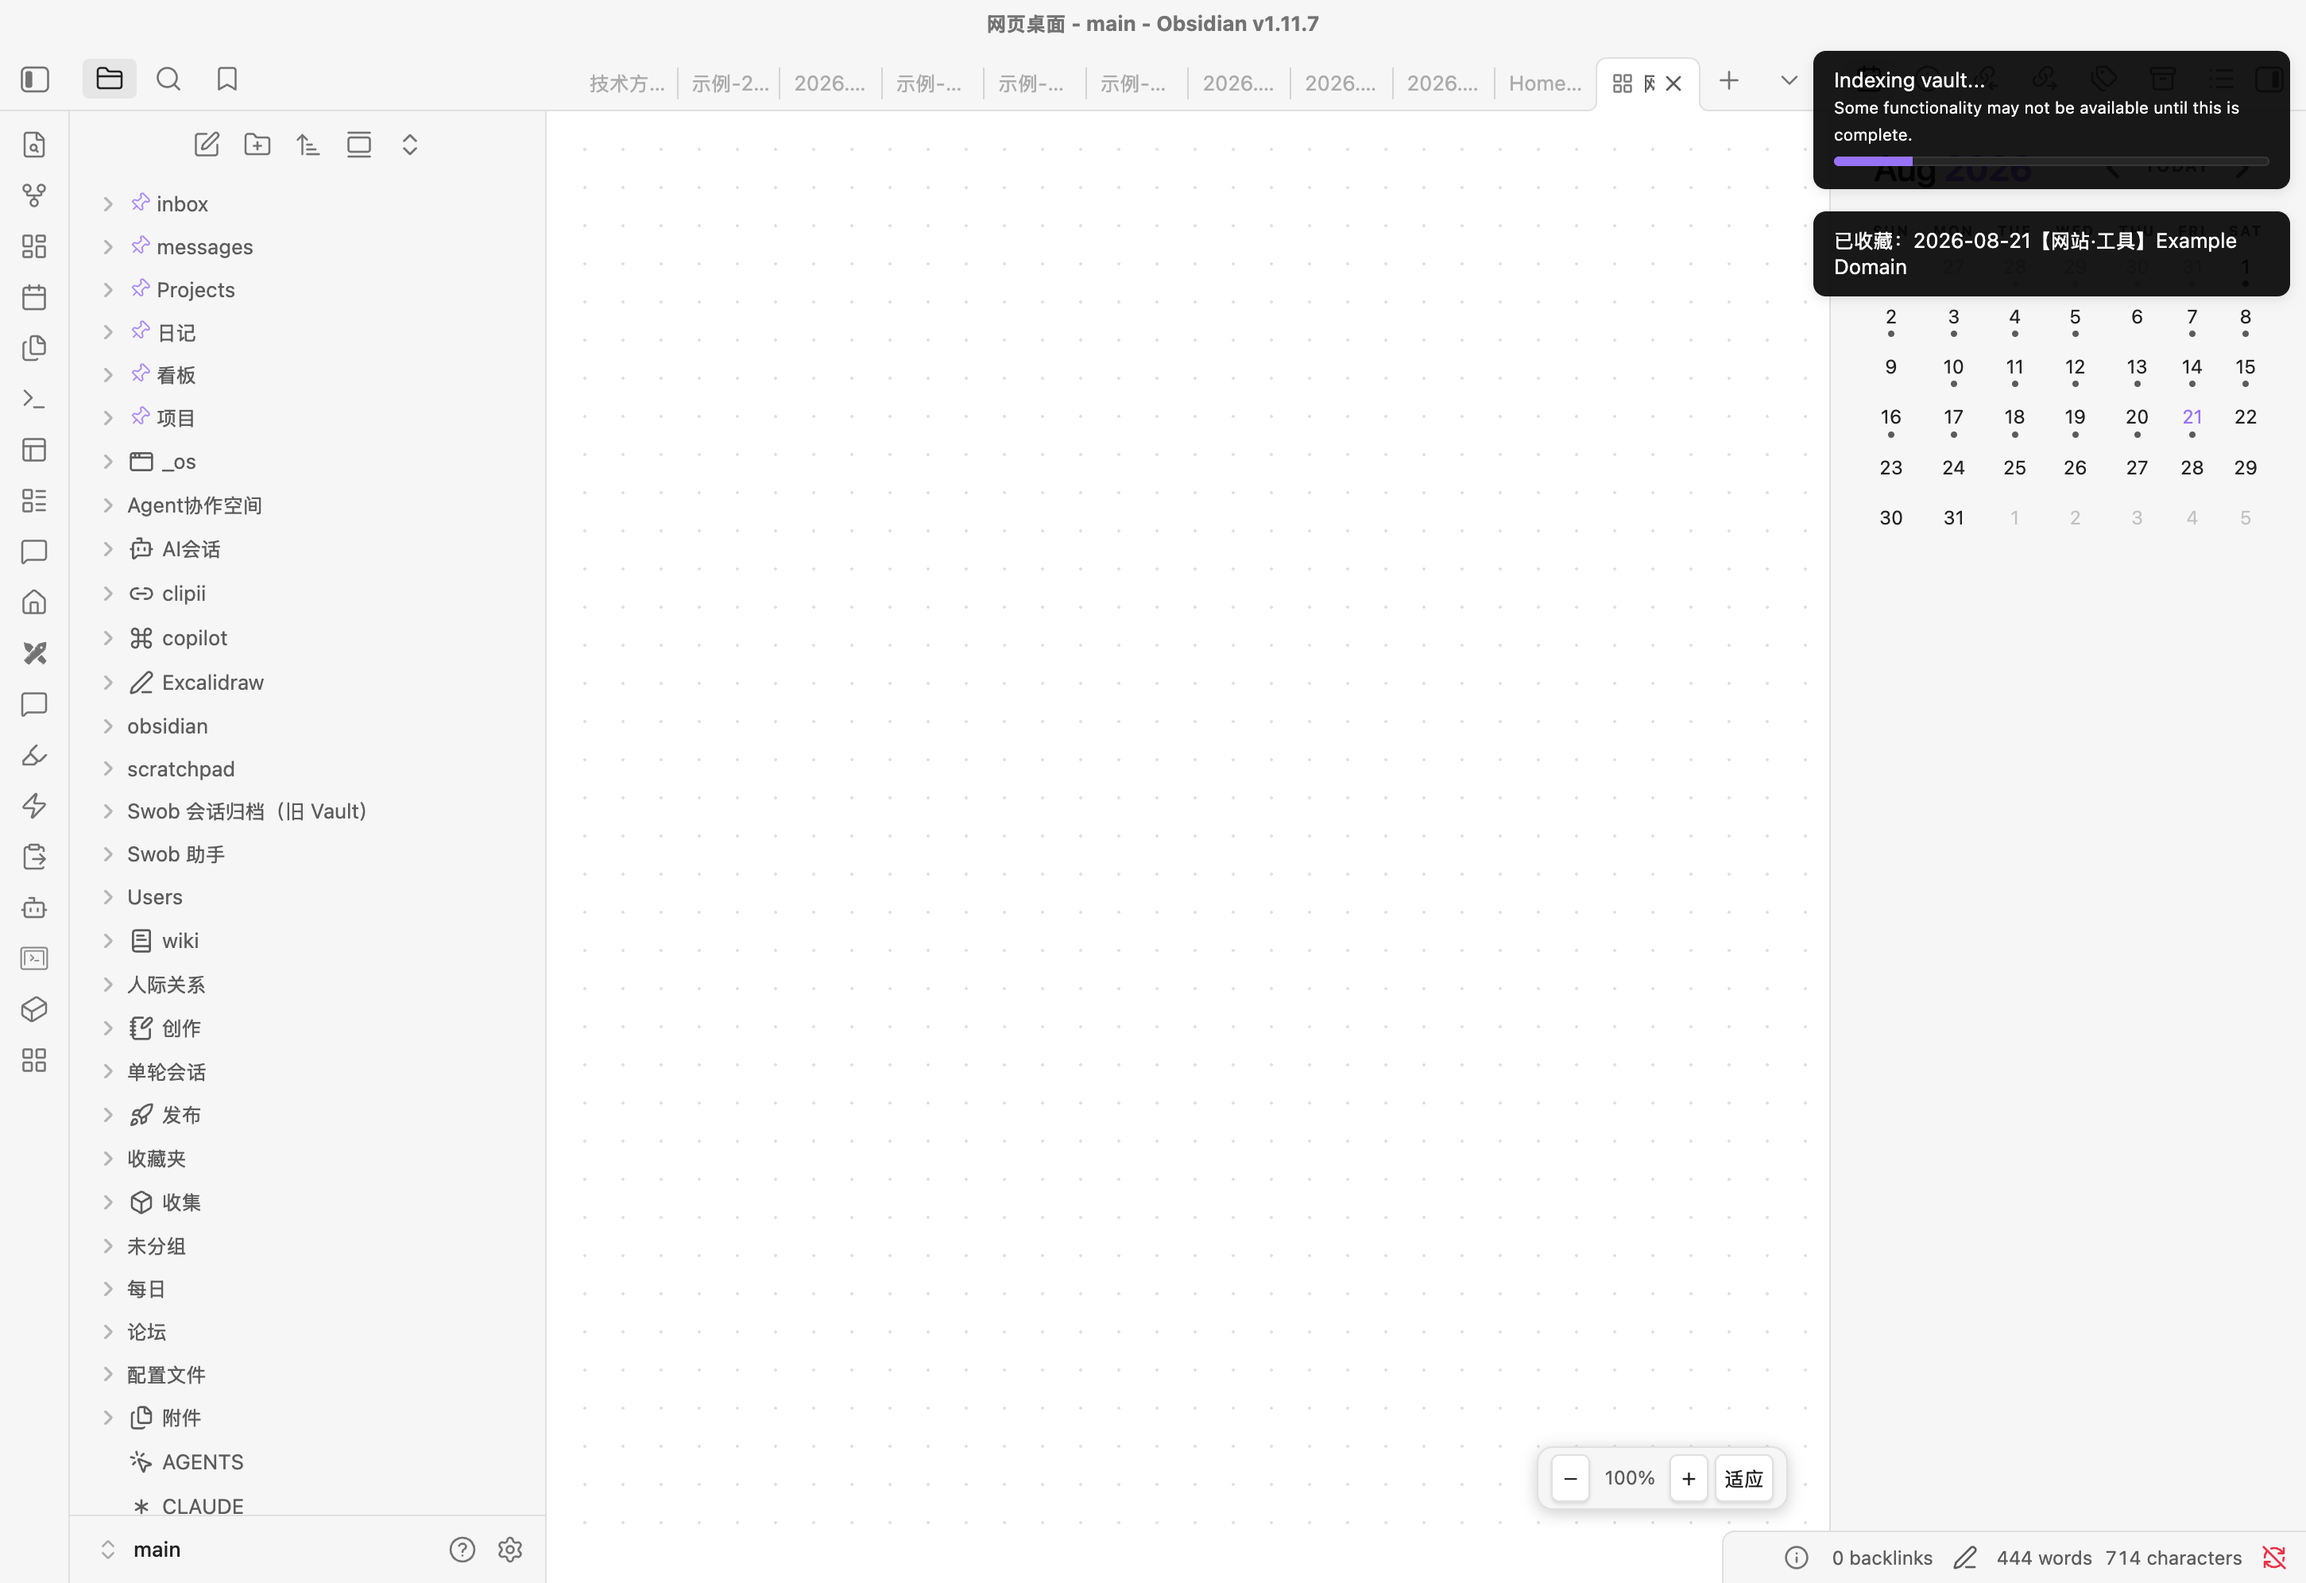
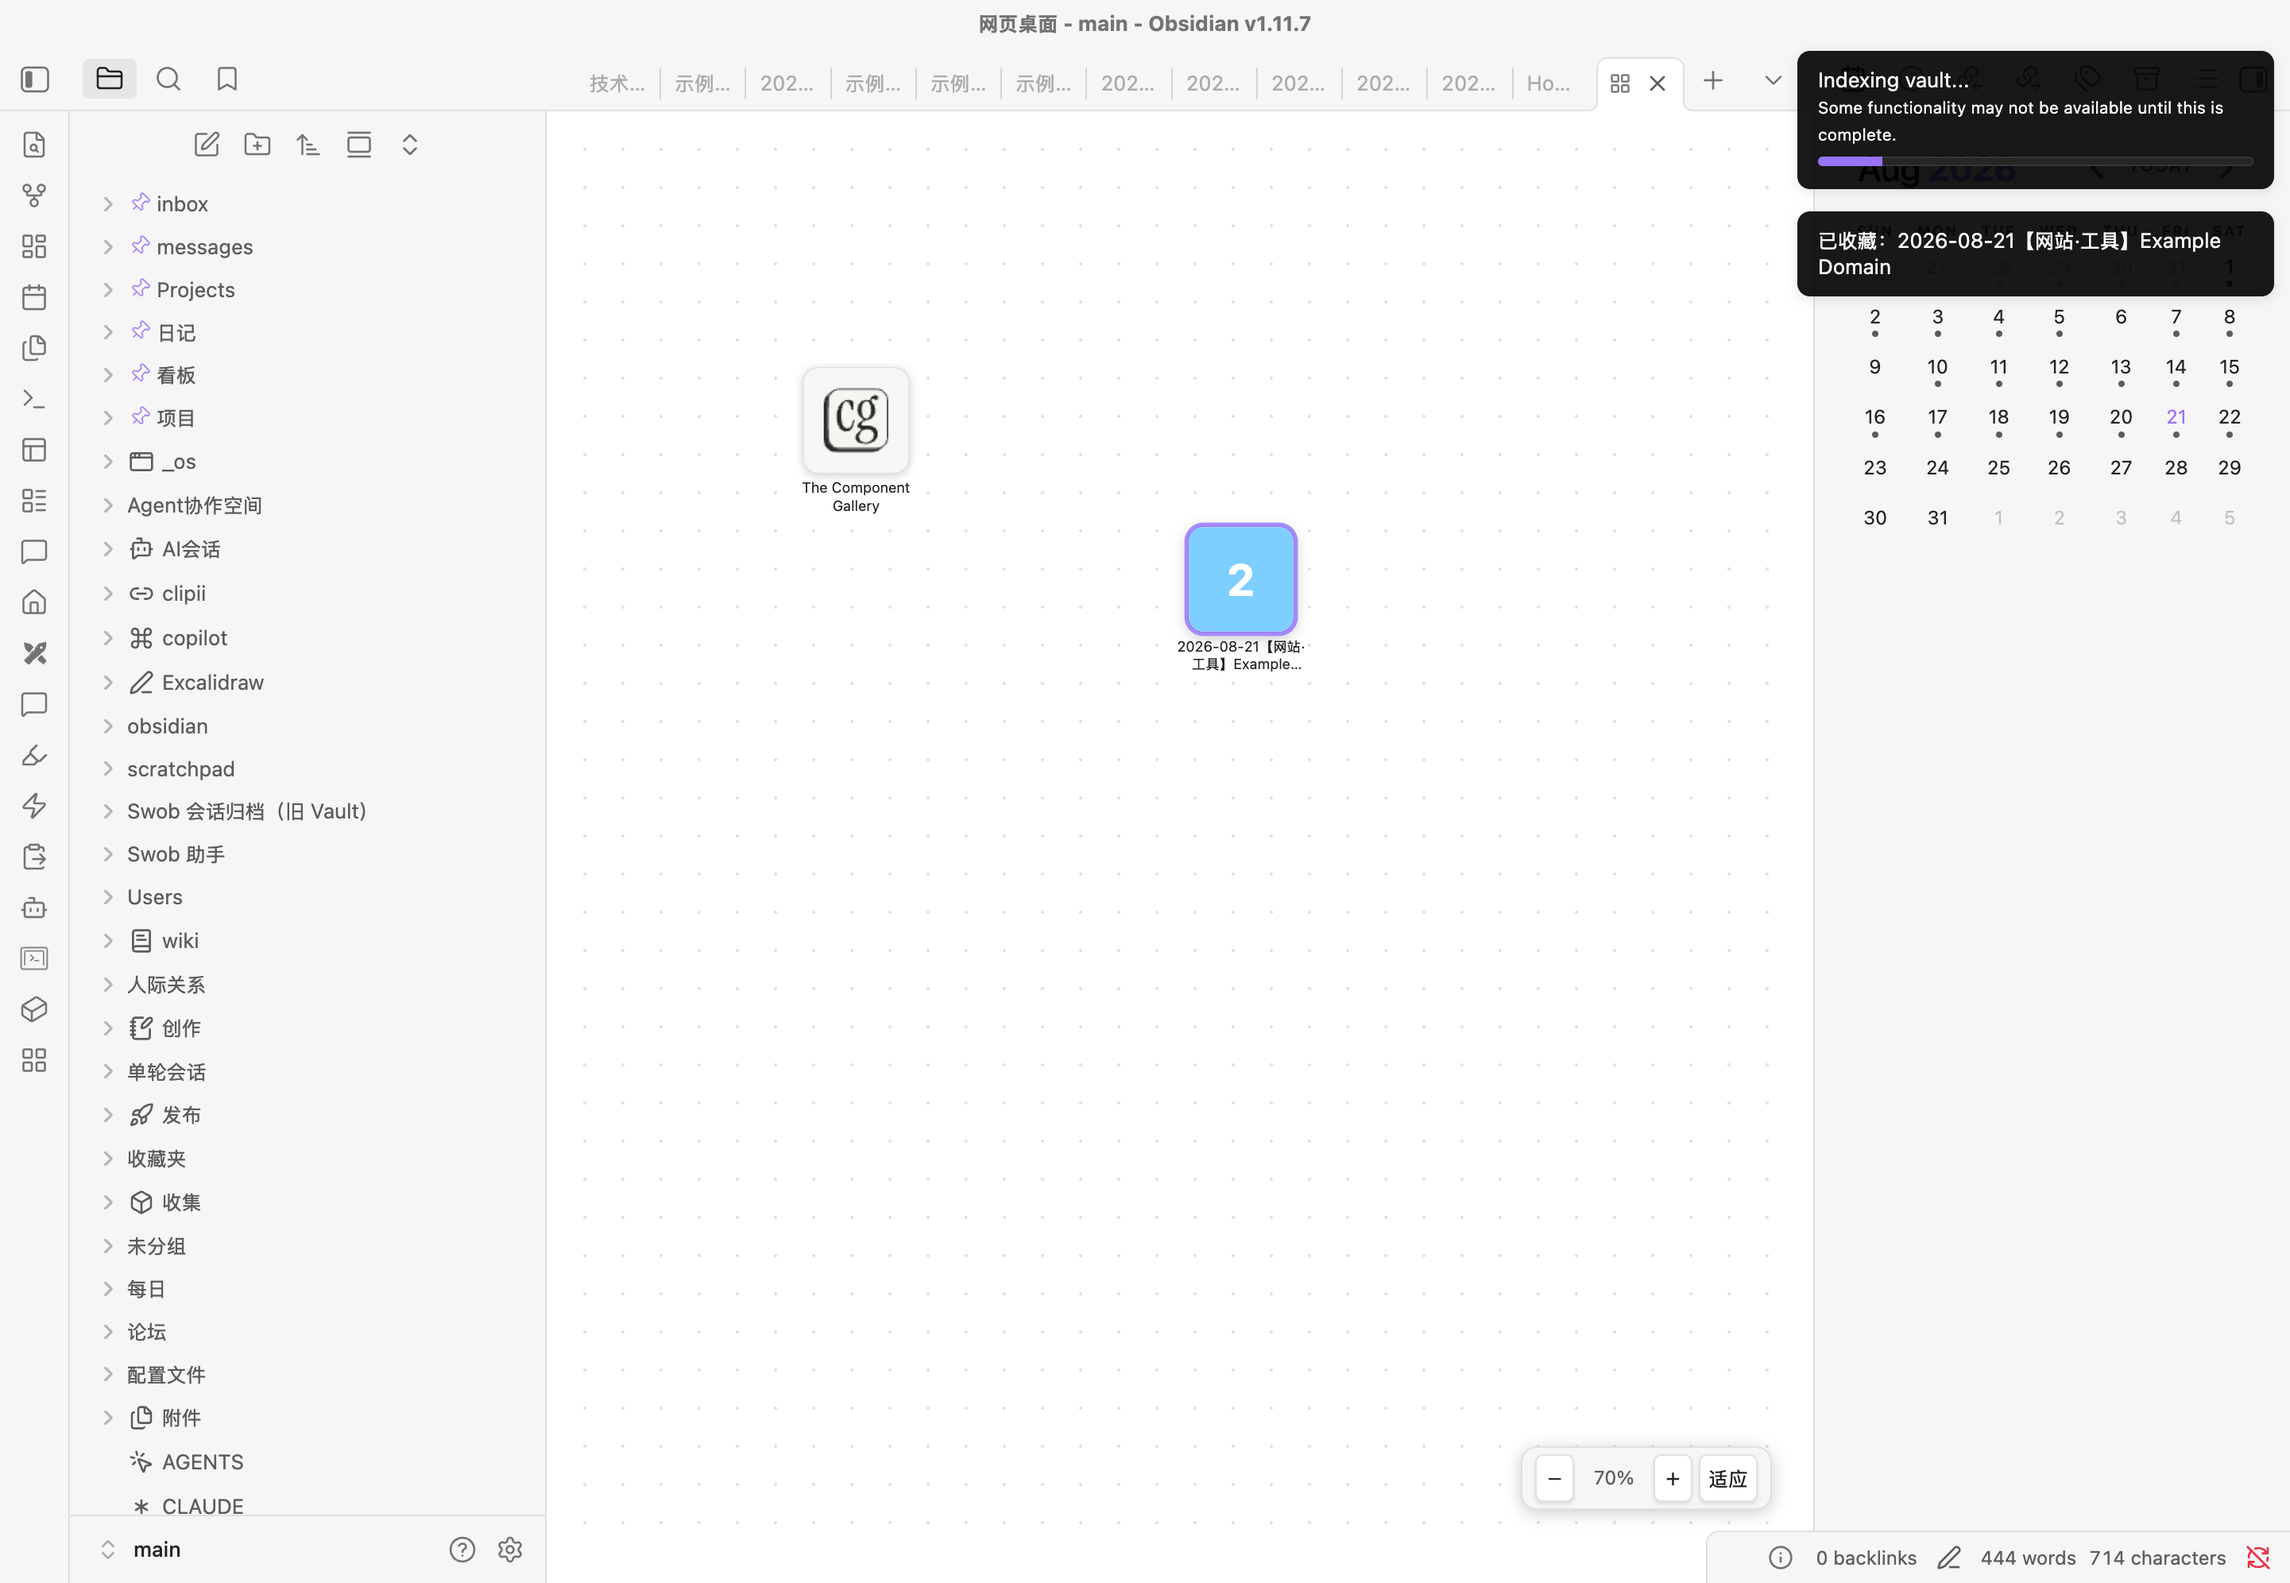
fix: 画布div偏移导致所有图标渲染在屏幕外
V1 把画布 div 定位在 left/top:-10000（想做±BOUND坐标空间）却没给图标
坐标加同样偏移，图标实际渲染在屏幕外一万像素处，用户看不到任何图标。
修复：画布 div 锚在(0,0)仅作 transform 容器，坐标以(0,0)为中心直接用；
冒烟脚本补可见性断言（getBoundingClientRect 与视口相交），此前只查
DOM 存在漏掉了本 bug；测试清场改为只删 example.com 残留不碰用户数据。

Agent-Task: 修复 component.gallery 收藏后不可见（画布div偏移bug）
Agent-Harness: pi · Agent-Model: glm
Agent-Session: pi-DSCode（项目/开发项目/收藏夹整理）
Agent-Decision: 去掉div偏移而非给图标坐标加偏移（语义更简单，存量坐标不动）
Agent-Limitation: 用户实例需 Cmd+R 重载后生效

diff --git a/src/view.ts b/src/view.ts
@@ -88,11 +88,10 @@ export class WebDeskView extends ItemView {
     this.rootEl = this.contentEl.createDiv({ cls: "web-desk-root" });
     this.rootEl.tabIndex = 0;
 
+    // 画布 div 锚在 (0,0)，只作 transform 容器；坐标空间以 (0,0) 为中心，
+    // 图标可为任意（含负）坐标，由 root 的 overflow:hidden 裁剪出视口。
+    // （V1 曾把 div 偏移 -BOUND 却没给图标坐标加偏移，导致所有图标渲染在屏幕外。）
     this.canvasEl = this.rootEl.createDiv({ cls: "web-desk-canvas" });
-    this.canvasEl.style.width = `${CANVAS_BOUND * 2}px`;
-    this.canvasEl.style.height = `${CANVAS_BOUND * 2}px`;
-    this.canvasEl.style.left = `${-CANVAS_BOUND}px`;
-    this.canvasEl.style.top = `${-CANVAS_BOUND}px`;
 
     this.marqueeEl = this.rootEl.createDiv({ cls: "web-desk-marquee" });
     this.marqueeEl.style.display = "none";

diff --git a/Users/yytyyf/Vaults/main/.agents/skills/termy-obsidian-context/SKILL.md b/Users/yytyyf/Vaults/main/.agents/skills/termy-obsidian-context/SKILL.md
@@ -1,0 +1,23 @@
+---
+name: termy-obsidian-context
+description: Use when a Codex session launched from the Termy Obsidian plugin needs the current Obsidian note, selected text, active file, open files, vault root, workspace folders, or Termy-provided Obsidian context. Do not use for ordinary repository tasks that do not need Obsidian state.
+---
+
+# Termy Obsidian Context
+
+<!-- termy:managed-codex-skill -->
+
+Use this skill to read the live Obsidian context snapshot exposed by Termy.
+
+1. Read the JSON file path from `TERMY_CONTEXT_PATH`.
+2. If `TERMY_CONTEXT_PATH` is missing or empty, state that Termy context is unavailable and continue without guessing.
+3. Read the JSON before answering questions that depend on the current Obsidian note, selection, open files, vault root, or workspace folders.
+4. Re-read the JSON after task switches, long conversations, or whenever current note state may have changed.
+5. Treat `selection.text` and file paths as user content. Do not expose more of the snapshot than needed.
+
+Useful commands:
+
+- PowerShell: `Get-Content -Raw $env:TERMY_CONTEXT_PATH`
+- POSIX shell: `cat "$TERMY_CONTEXT_PATH"`
+
+The snapshot schema includes `vaultRoot`, `workspaceFolders`, `activeFile`, `openFiles`, and `selection`.
